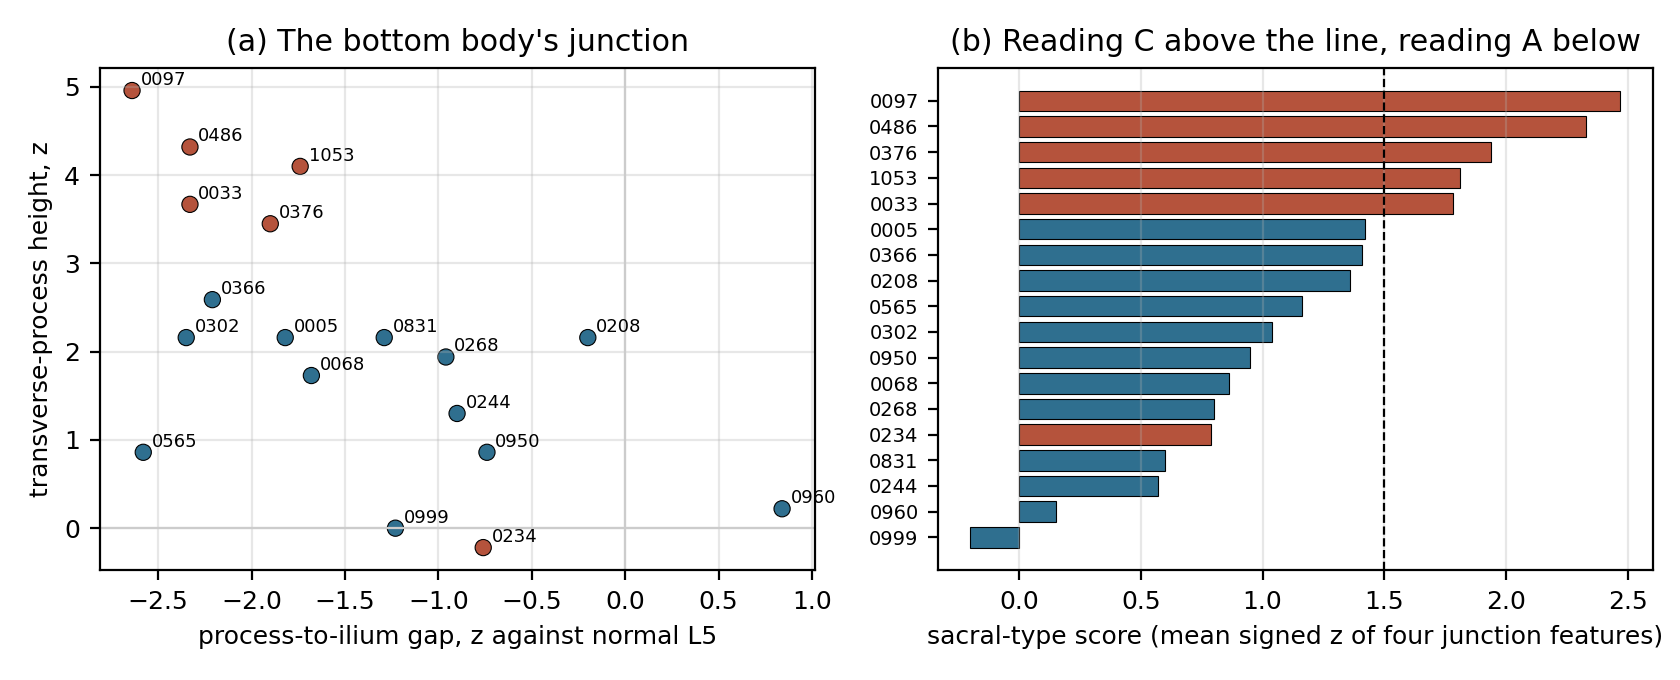
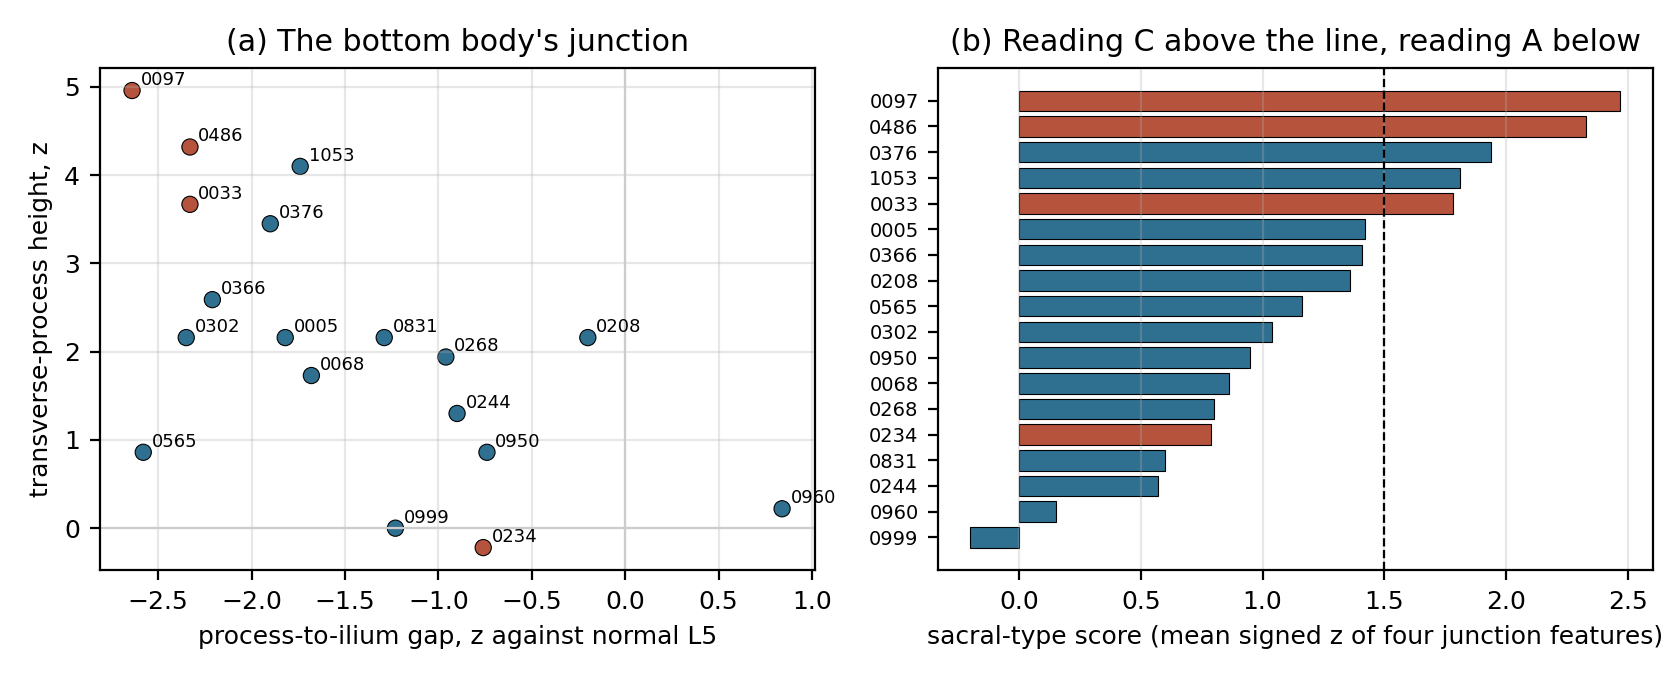
Readings merged: the column-wide shift test overrides the rib check for reading B; two records where top and bottom disagree are flagged for a reader

Changed region(s): [[0.5881, 0.1853, 0.8976, 0.2779], [0.1548, 0.3088, 0.1857, 0.3397], [0.1548, 0.2162, 0.1857, 0.2471]]

diff --git a/scripts/six_lumbar_readings.py b/scripts/six_lumbar_readings.py
@@ -57,7 +57,17 @@ def main() -> int:
     ap.add_argument("--out", default=str(HERE / "results/six_lumbar_readings"))
     ap.add_argument("--sacral-threshold", type=float, default=1.5,
                     help="mean sacral-type z above which the bottom body reads as a lumbarized S1")
+    ap.add_argument("--shift", default=str(HERE / "results/six_lumbar_readings/shift_hypothesis.csv"),
+                    help="output of shift_hypothesis_test.py; a record whose column fits better with every "
+                         "name shifted up reads as B whatever its ribs say")
+    ap.add_argument("--shift-threshold", type=float, default=-5.0,
+                    help="delta(A-B) at or below this reads as B; normal controls bottom out near -4")
     a = ap.parse_args()
+    shift = {}
+    if Path(a.shift).exists():
+        for r in csv.DictReader(open(a.shift, encoding="utf-8")):
+            if r.get("group") == "six-lumbar":
+                shift[r["case"]] = fnum(r.get("delta_A_minus_B"))
     out = Path(a.out)
     out.mkdir(parents=True, exist_ok=True)
 
@@ -98,9 +108,20 @@ def main() -> int:
         # (docs/CASTELLVI_SCREEN_BLIND_SPOT.md). There the sacrum's own height is the evidence:
         # a sacrum that has lost its first segment is short.
         short_sacrum = z["sacrum_height_mm"] is not None and z["sacrum_height_mm"] <= -2.0
+        # The rib check cannot see an APLASTIC twelfth rib (the labels define the lowest
+        # rib-bearing body as T12, so a rib-less T12 is labelled L1 and every rib ratio looks
+        # normal). The column-wide shape test (shift_hypothesis_test.py) can: it asks whether
+        # the labelled L1 is a better T12 than L1, with the whole column scored both ways.
+        d_shift = shift.get(c)
+        top_thoracic_by_shape = d_shift is not None and d_shift <= a.shift_threshold
+        bottom_sacral = (sacral_score is not None and sacral_score >= a.sacral_threshold) or short_sacrum
         if top_thoracic:
-            reading = "B: T12 with an aplastic or stump twelfth rib"
-        elif (sacral_score is not None and sacral_score >= a.sacral_threshold) or short_sacrum:
+            reading = "B: T12 with a stump twelfth rib"
+        elif top_thoracic_by_shape and bottom_sacral:
+            reading = "B or C: top body thoracic-type AND bottom body sacral-type; needs a reader"
+        elif top_thoracic_by_shape:
+            reading = "B: T12 with aplastic ribs (column fits shifted up)"
+        elif bottom_sacral:
             reading = "C: lumbarized S1"
         elif sacral_score is not None:
             reading = "A: true L6"
@@ -111,6 +132,7 @@ def main() -> int:
                       "rib_pairs_in_fov": int(rib_pairs), "rib12_11_ratio_min": ratio,
                       **{f"z_{f}": (None if z[f] is None else round(z[f], 2)) for f in FEATURES},
                       "sacral_type_score": None if sacral_score is None else round(sacral_score, 2),
+                      "shift_delta_A_minus_B": d_shift,
                       "reading": reading})
 
     with open(out / "six_lumbar_readings.csv", "w", newline="", encoding="utf-8") as fh:
@@ -124,13 +146,14 @@ def main() -> int:
              f"six-lumbar records: {len(table)}",
              "reference medians: " + ", ".join(f"{k} {ref[k][0]:.1f}" for k in FEATURES),
              "", "readings:"] + [f"  {k}: {v}" for k, v in sorted(counts.items())] + [
-             "", f"{'case':5s} {'Castellvi':9s} {'ribs':4s} {'r12/11':6s} {'TPh':6s} {'gap':6s} {'disc':6s} {'sacH':6s} {'score':6s}  reading"]
+             "", f"{'case':5s} {'Castellvi':9s} {'ribs':4s} {'r12/11':6s} {'TPh':6s} {'gap':6s} {'disc':6s} {'sacH':6s} {'score':6s} {'shift':6s}  reading"]
     for t in table:
         zz = [t[f"z_{f}"] for f in FEATURES]
         lines.append(f"{t['case']:5s} {t['castellvi']:9s} {t['rib_pairs_in_fov']:<4d} "
                      f"{'' if t['rib12_11_ratio_min'] is None else f'{t['rib12_11_ratio_min']:.2f}':6s} "
                      + " ".join(f"{'' if v is None else f'{v:+.1f}':6s}" for v in zz)
-                     + f" {'' if t['sacral_type_score'] is None else f'{t['sacral_type_score']:+.2f}':6s}  {t['reading']}")
+                     + f" {'' if t['sacral_type_score'] is None else f'{t['sacral_type_score']:+.2f}':6s}"
+                     + f" {'' if t['shift_delta_A_minus_B'] is None else f'{t['shift_delta_A_minus_B']:+.0f}':6s}  {t['reading']}")
     (out / "report.txt").write_text("\n".join(lines) + "\n", encoding="utf-8")
     print("\n".join(lines))
 
